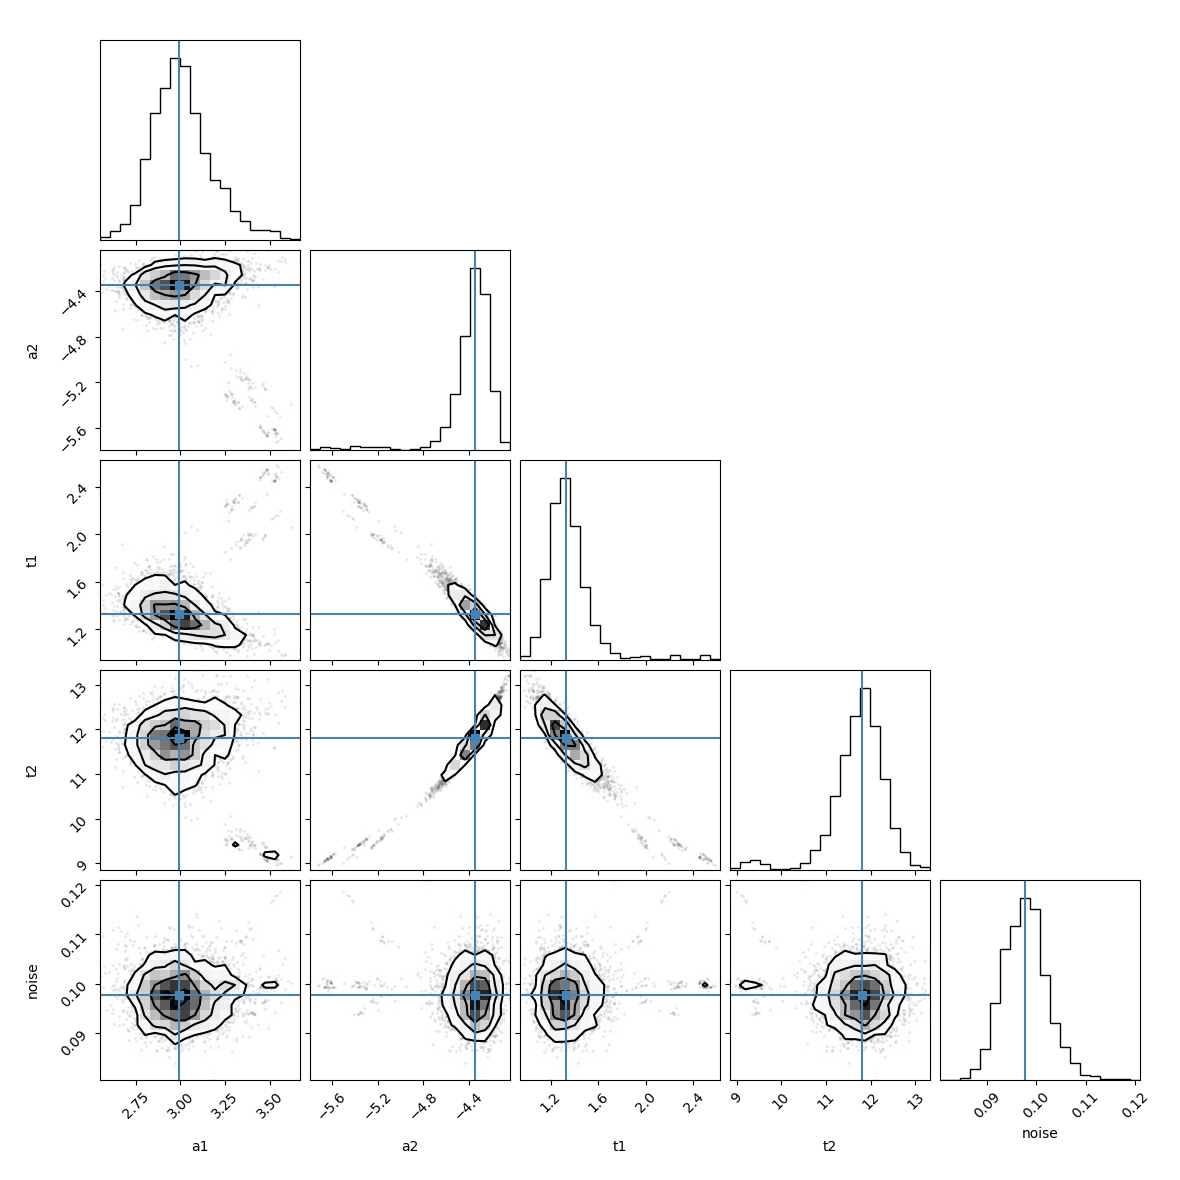
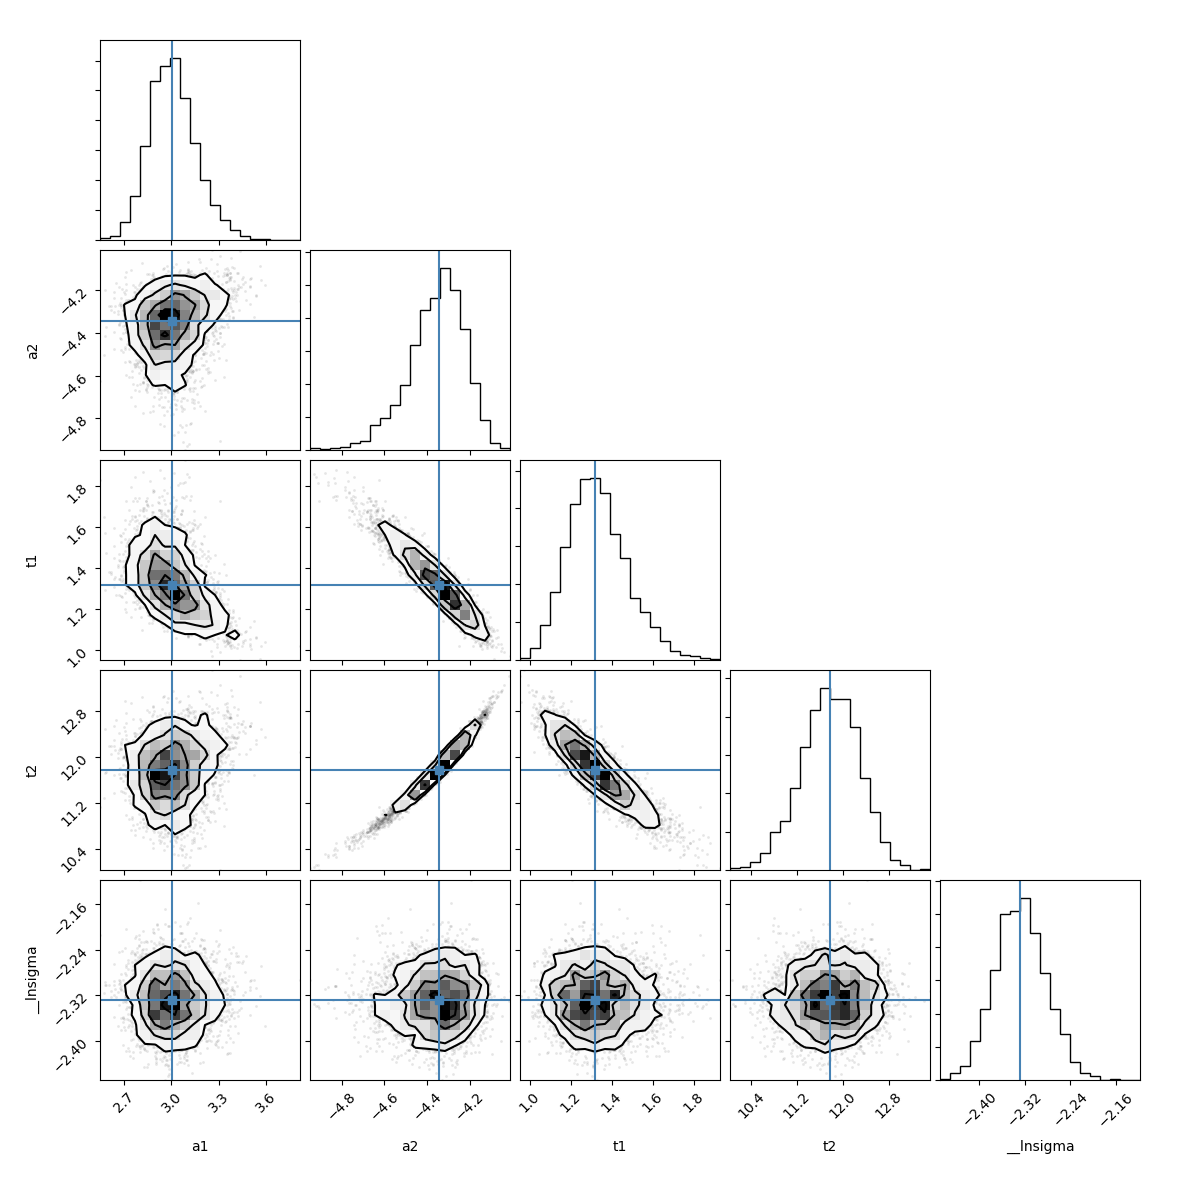
DOC: update text and output of emcee example
- keep colors in the documents consistent

diff --git a/examples/doc_fitting_emcee.py b/examples/doc_fitting_emcee.py
@@ -22,7 +22,7 @@ np.random.seed(0)
 y = (3.0*np.exp(-x/2) - 5.0*np.exp(-(x-0.1) / 10.) +
      0.1*np.random.randn(len(x)))
 if HASPYLAB:
-    plt.plot(x, y)
+    plt.plot(x, y, 'b')
     # plt.savefig('../doc/_images/emcee_dbl_exp.png')
     plt.show()
 
@@ -39,8 +39,8 @@ mi = lmfit.minimize(residual, p, method='Nelder', nan_policy='omit')
 lmfit.printfuncs.report_fit(mi.params, min_correl=0.5)
 if HASPYLAB:
     plt.figure()
-    plt.plot(x, y)
-    plt.plot(x, residual(mi.params) + y, 'k')
+    plt.plot(x, y, 'b')
+    plt.plot(x, residual(mi.params) + y, 'r')
     # plt.savefig('../doc/_images/emcee_dbl_exp2.png')
     plt.show()
 
@@ -73,7 +73,7 @@ print(p)
 
 if HASPYLAB:
     plt.figure()
-    plt.plot(x, y)
+    plt.plot(x, y, 'b')
     plt.plot(x, residual(mi.params) + y, 'r', label='Nelder-Mead')
     plt.plot(x, residual(res.params) + y, 'k--', label='emcee')
     plt.legend()

diff --git a/doc/fitting.rst b/doc/fitting.rst
@@ -415,7 +415,7 @@ exponential decay. A small amount of Gaussian noise is also added in::
     >>> x = np.linspace(1, 10, 250)
     >>> np.random.seed(0)
     >>> y = 3.0 * np.exp(-x / 2) - 5.0 * np.exp(-(x - 0.1) / 10.) + 0.1 * np.random.randn(len(x))
-    >>> plt.plot(x, y)
+    >>> plt.plot(x, y, 'b')
     >>> plt.show()
 
 .. image:: _images/emcee_dbl_exp.png
@@ -436,12 +436,12 @@ Solving with :func:`minimize` gives the Maximum Likelihood solution::
     >>> mi = lmfit.minimize(residual, p, method='Nelder', nan_policy='omit')
     >>> lmfit.printfuncs.report_fit(mi.params, min_correl=0.5)
     [[Variables]]
-    a1:  2.98623689 (init = 4)
-    a2: -4.33525597 (init = 4)
-    t1:  1.30993186 (init = 3)
-    t2:  11.8240752 (init = 3)
+        a1:  2.98623689 (init = 4)
+        a2: -4.33525597 (init = 4)
+        t1:  1.30993186 (init = 3)
+        t2:  11.8240752 (init = 3)
 
-    >>> plt.plot(x, y)
+    >>> plt.plot(x, y, 'b')
     >>> plt.plot(x, residual(mi.params) + y, 'r')
     >>> plt.show()
 
@@ -457,21 +457,24 @@ log-prior probability and log-likelihood functions. The log-prior probability is
 assumed to be zero if all the parameters are within their bounds and ``-np.inf``
 if any of the parameters are outside their bounds.
 
-    >>> # add a noise parameter
-    >>> mi.params.add('noise', value=1, min=0.001, max=2)
+If the objective function returns an array of unweighted residuals (i.e.,
+``data-model``) as is the case here, you can use ``is_weighted=False`` as an
+argument for ``emcee``. In that case, ``emcee`` will automatically add/use the
+``__lnsigma`` parameter to estimate the true uncertainty in the data. To
+place boundaries on this parameter one can do::
 
-    >>> # This is the log-likelihood probability for the sampling. We're going to estimate the
-    >>> # size of the uncertainties on the data as well.
-    >>> def lnprob(p):
-    ...    noise = p['noise']
-    ...    return -0.5 * np.sum((residual(p) / noise)**2 + np.log(2 * np.pi * noise**2))
+    >>> mi.params.add('__lnsigma', value=np.log(0.1), min=np.log(0.001), max=np.log(2))
 
 Now we have to set up the minimizer and do the sampling::
 
-    >>> mini = lmfit.Minimizer(lnprob, mi.params)
-    >>> res = mini.emcee(burn=300, steps=1000, thin=20, params=mi.params)
+    >>> res = lmfit.minimize(residual, method='emcee', nan_policy='omit', burn=300, steps=1000, thin=20,
+                             params=mi.params, is_weighted=False)
 
-Lets have a look at those posterior distributions for the parameters.  This requires
+Of note, the ``is_weighted`` argument will be ignored if your objective function
+returns a float instead of an array. See the Notes in :meth:`Minimizer.emcee` for
+more information.
+
+Lets have a look at those posterior distributions for the parameters. This requires
 installation of the `corner` package::
 
     >>> import corner
@@ -493,19 +496,18 @@ You can see that we recovered the right uncertainty level on the data::
     median of posterior probability distribution
     --------------------------------------------
     [[Variables]]
-        a1:     2.99342394 +/- 0.15851315 (5.30%) (init = 2.986237)
-        a2:    -4.34384999 +/- 0.12454831 (2.87%) (init = -4.335256)
-        t1:     1.32338403 +/- 0.14120290 (10.67%) (init = 1.309932)
-        t2:     11.7962437 +/- 0.48632272 (4.12%) (init = 11.82408)
-        noise:  0.09761521 +/- 0.00431795 (4.42%) (init = 1)
+        a1:         3.00096797 +/- 0.14231292 (4.74%) (init = 2.986237)
+        a2:        -4.34208406 +/- 0.12652899 (2.91%) (init = -4.335256)
+        t1:         1.31910309 +/- 0.14180921 (10.75%) (init = 1.309932)
+        t2:         11.7812397 +/- 0.49805858 (4.23%) (init = 11.82408)
+        __lnsigma: -2.32838725 +/- 0.04403968 (1.89%) (init = -2.302585)
     [[Correlations]] (unreported correlations are < 0.100)
-        C(a2, t1)    = -0.965
-        C(a2, t2)    =  0.959
-        C(t1, t2)    = -0.927
-        C(a1, a2)    = -0.241
-        C(a1, t2)    = -0.168
-        C(a2, noise) = -0.116
-        C(t1, noise) =  0.107
+        C(a2, t2) =  0.982
+        C(a2, t1) = -0.940
+        C(t1, t2) = -0.897
+        C(a1, t1) = -0.504
+        C(a1, a2) =  0.214
+        C(a1, t2) =  0.174
 
     >>> # find the maximum likelihood solution
     >>> highest_prob = np.argmax(res.lnprob)
@@ -519,16 +521,17 @@ You can see that we recovered the right uncertainty level on the data::
     >>> print(p)
     Maximum likelihood Estimation
     -----------------------------
-    Parameters([('a1', <Parameter 'a1', 2.9684811738216754, bounds=[-inf:inf]>),
-    ('a2', <Parameter 'a2', -4.355238699173162, bounds=[-inf:inf]>),
-    ('t1', <Parameter 't1', 1.3337647386777762, bounds=[-inf:inf]>),
-    ('t2', <Parameter 't2', 11.758394302818514, bounds=[-inf:inf]>)])
+   Parameters([('a1', <Parameter 'a1', 3.003878755004621, bounds=[-inf:inf]>),
+   ('a2', <Parameter 'a2', -4.327965057455135, bounds=[-inf:inf]>),
+   ('t1', <Parameter 't1', 1.3006869431937975, bounds=[-inf:inf]>),
+   ('t2', <Parameter 't2', 11.848423244767798, bounds=[-inf:inf]>)])
+
     >>> # Finally lets work out a 1 and 2-sigma error estimate for 't1'
     >>> quantiles = np.percentile(res.flatchain['t1'], [2.28, 15.9, 50, 84.2, 97.7])
     >>> print("1 sigma spread", 0.5 * (quantiles[3] - quantiles[1]))
     >>> print("2 sigma spread", 0.5 * (quantiles[4] - quantiles[0]))
-    1 sigma spread 0.1414604069179637
-    2 sigma spread 0.453234685099423
+    1 sigma spread 0.14235120263891188
+    2 sigma spread 0.2873717185860183
 
 Getting and Printing Fit Reports
 ===========================================
